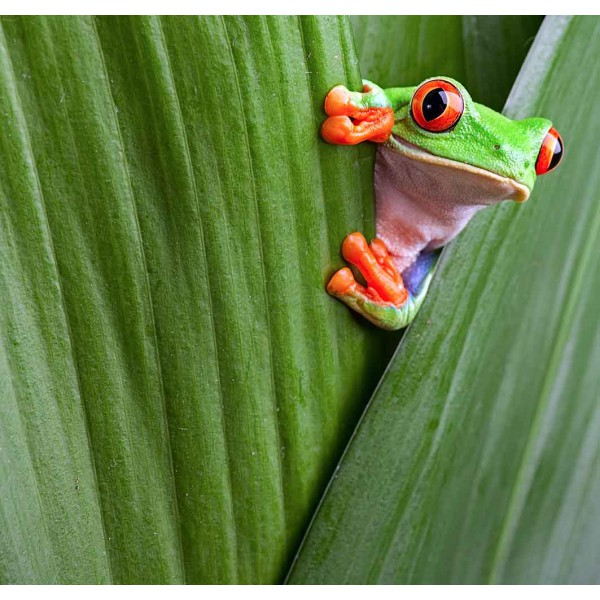
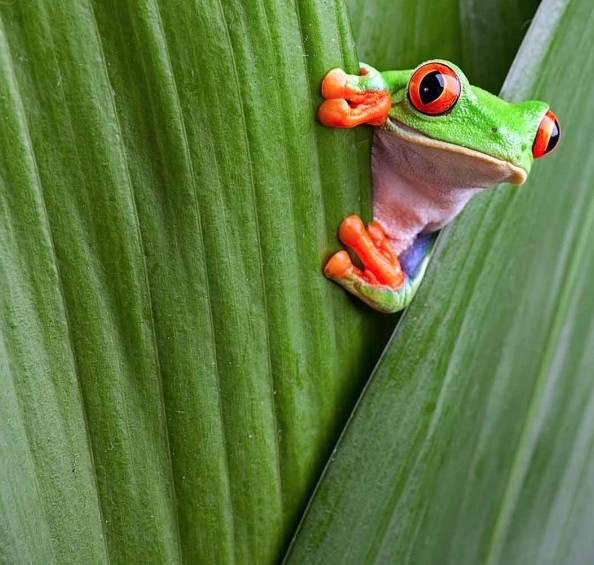
pr 2

diff --git a/src/pages/DescriptionPage.jsx b/src/pages/DescriptionPage.jsx
@@ -1,0 +1,87 @@
+import React from 'react'
+
+const DescriptionPage = () => {
+  return (
+    <div>
+        <div className='row'>
+            <div className='col-12'>
+                <h2 className='text-center mb-5'>Мое описание</h2>
+            </div>
+        </div>
+        
+        <div className='row justify-content-center'>
+            <div className='col-md-10'>
+                <div className='card shadow-lg border-0' style={{
+                    borderRadius: '15px',
+                    overflow: 'hidden'
+                }}>
+                
+                <div className='card-body p-0'>
+                        <div className='row g-0'>
+                            <div className='col-md-4'>
+                                <div className='h-100 d-flex align-items-center justify-content-center'
+                                style={{background: 'linear-gradient(135deg, #d14409 20%, #027201 80%) '}}>
+                                   <div className='text-center p-4'>
+                                        <img src="/images/frog2.1.jpg"
+                                        alt="лягушенька"
+                                        className='img-fluid rounded-circle shadow-lg mb-3'
+                                        style={{
+                                            width: '200px',
+                                            height: '200px',
+                                            objectFit: 'cover'
+                                        }}
+                                        onMouseEnter={(event) => event.target.style.transform = 'scale(1.2)'}
+                                        onMouseLeft={(event) => event.target.style.transform = 'scale(1)'}
+
+                                        >
+                                        </img>
+                                        <h4 className='text-white'>Василиса Премудрая</h4>
+                                        <p></p>
+                                    </div> 
+                                </div>
+                            </div>
+                            <div className='col-md-8'>
+                                <div className='p-5'>
+                                    <div className='mb-4'>
+                                        <h3 className='text-pemary mb-'>TOP SERCRET</h3>
+                                        <div className='row'>
+                                            <div className='col-md-6'>
+                                                <p className='mb-2'><b>full name</b> Ekaterina Sukhova</p>
+                                                <p className='mb-2'><b>age</b> 44</p>
+                                                <p className='mb-2'><b>city</b> Moscow</p>                
+                                            </div>
+
+                                            <div className='col-md-6'>
+                                            <p className='mb-2'><b>email</b> vasya@mail.ru</p>
+                                            <p className='mb-2'><b>cell</b> 123456789</p>
+                                            <p className='mb-2'><b>status</b> <span className='badge bg-warning'> in progress </span></p>
+                                            </div>
+                                        </div>
+                                    </div>
+
+
+                                     <div className='mb-4'>
+                                        <h3 className='text-warning mb-'>LOW SERCRET</h3>
+
+                                        <div className='card bg-light'>
+                                            <div className='card-body'>
+                                                <h5>NASA</h5>
+                                                <p className='mb-2'>long long time ago </p>
+                                            </div>
+                                          
+                                        </div>
+                                    </div>
+
+
+                                </div>
+                            </div>
+                        </div>
+                </div>
+            </div>
+        </div>
+    </div>
+    </div>
+  )
+}
+
+export default DescriptionPage

diff --git a/src/App.jsx b/src/App.jsx
@@ -2,52 +2,53 @@ import logo from './logo.svg';
 import 'bootstrap/dist/css/bootstrap.min.css';
 import './App.css';
 import CardComponent from './components/CardComponent';
+import {BrowserRouter as Router, Routes, Route, Link} from 'react-router-dom';
+import HomePage from './pages/HomePage';
+import CardsPage from './pages/CardsPage';
+import TablePage from './pages/TablePage';
+import PeoplePage from './pages/PeoplePage';
+import DescriptionPage from './pages/DescriptionPage';
 
 function App() {
   return (
+    <Router>
 <div className="App d-flex flex-column min-vh-100">
-<header className="bg-dark text-white py-3">
+
+<header className="text-white py-3" style={{backgroundColor: 'rgb(0, 30, 10)'}}>
   <div className="container">
     <div className="row align-item-center">
-      <div className="col">
+
+      <div className="col-md-6">
         <span>
           <img src={logo} className="App-logo" alt="logo" style={{height: '40px'}}/>
           Мое приложение
         </span>
       </div>
+
+      <div className="col-md-6 text-end">
+        <Link to="/" className="text-white text-decoration-none me-3">Main Page</Link>
+        <Link to="/cards" className="text-white text-decoration-none me-3" >Lyaguhi</Link>
+        <Link to="/table" className="text-white text-decoration-none me-3">Table page</Link>
+        <Link to="/human" className="text-white text-decoration-none me-3">stuff</Link>
+        <Link to="/description" className="text-white text-decoration-none me-3">description</Link>
+        
+      </div>
+
     </div>
   </div>
 </header>
 
 <main className="container my-5">
-<div className="row g-4">
-  <div className="col-md-4">
-    <CardComponent
-    title = "Лягуха 1"
-    imageUrl = "/images/frog1.webp"
-    description = "Одна крутая лягуха"
-    imageAlt = "лягуха 1"/>
-  </div>
-
-   <div className="col-md-4">
-    <CardComponent
-    title = "Лягуха 2"
-    imageUrl = "/images/frog3.webp"
-    description = "Две крутые лягухи"
-    imageAlt = "лягуха 2"/>
-  </div>
-
-   <div className="col-md-4">
-    <CardComponent
-    title = "Лягуха 3"
-    imageUrl = "/images/frog5.png"
-    description = "Три крутые лягухи"
-    imageAlt = "лягуха 3"/>
-  </div>
-</div>
+<Routes>
+  <Route path="/" element={<HomePage/>}/>
+  <Route path="/cards" element={<CardsPage/>}/>
+  <Route path="/table" element={<TablePage/>}/>
+  <Route path="/human" element={<PeoplePage/>}/>
+  <Route path="/description" element={<DescriptionPage/>}/>
+</Routes>
 </main>
 
-<footer className="bg-secondary py-3 mt-auto">
+<footer className="py-3 mt-auto" style={{backgroundColor: 'rgba(2, 114, 1)'}}>
   <div className="container">
     <div className="row align-items-center">
       <div className="col">
@@ -60,6 +61,7 @@ function App() {
 
 </footer>
 </div>
+</Router>
   )
 }
 

diff --git a/src/pages/TablePage.jsx b/src/pages/TablePage.jsx
@@ -1,0 +1,41 @@
+import React from 'react'
+
+const TablePage = () => {
+  return (
+    <div>
+    <h2>Tables:</h2>
+    <table className="table table-hover">
+        <thead className="table-dark">
+            <tr className='table-dark'>
+                <th>ФИО</th>
+                <th>Почта</th>
+                <th>Статус</th>
+
+            </tr>
+        </thead>
+        <tbody>
+            <tr className='table-success'>
+                <td>Сухова Екатерина Александровна</td>
+                <td>katenkasukhova@yandex.ru</td>
+                <td><span className="badge bg-success"> Мега-Пользователь</span></td>
+            </tr>      
+            <tr className='table-warning'>
+                <td>Сухова Екатерина Александровна</td>
+                <td>katenkasukhova@yandex.ru</td>
+                <td><span className="badge bg-warning"> Мега-Пользователь</span></td>
+
+
+            </tr>      
+            <tr className='table-danger'>
+                <td>Сухова Екатерина Александровна</td>
+                <td>katenkasukhova@yandex.ru</td>
+                <td><span className="badge bg-danger"> Мега-Пользователь</span></td>
+            </tr>      
+
+        </tbody>
+    </table>
+    </div>
+  )
+}
+
+export default TablePage

diff --git a/src/pages/CardsPage.jsx b/src/pages/CardsPage.jsx
@@ -1,0 +1,36 @@
+import React from 'react'
+import CardComponent from '../components/CardComponent';
+
+const CardsPage = () => {
+  return (
+    <div>
+        <div className="row g-4">
+  <div className="col-md-4">
+    <CardComponent
+    title = "Лягуха 1"
+    imageUrl = "/images/frog1.webp"
+    description = "Одна крутая лягуха"
+    imageAlt = "лягуха 1"/>
+  </div>
+
+   <div className="col-md-4">
+    <CardComponent
+    title = "Лягуха 2"
+    imageUrl = "/images/frog3.webp"
+    description = "Две крутые лягухи"
+    imageAlt = "лягуха 2"/>
+  </div>
+
+   <div className="col-md-4">
+    <CardComponent
+    title = "Лягуха 3"
+    imageUrl = "/images/frog5.png"
+    description = "Три крутые лягухи"
+    imageAlt = "лягуха 3"/>
+  </div>
+</div>
+    </div>
+  );
+};
+
+export default CardsPage;

diff --git a/src/pages/PeoplePage.jsx b/src/pages/PeoplePage.jsx
@@ -1,0 +1,31 @@
+import React, { useEffect, useState } from 'react'
+
+const PeoplePage = () => {
+    const [human, setHuman] = useState([])
+
+    useEffect(() => {
+        fetch('/api/data.json')
+        .then((res) => res.json())
+        .then((data) => setHuman(data.human || []))
+    }, []);
+
+  return (
+    <div>
+        <h2 className='text-center mb-4'>Данные из файла</h2>
+        <div className='row g-3'>
+        {human.map((hum) => (
+            <div className='col-md-6' key={hum.id}>
+                <div className='card h-100'>
+                    <div className='card-body'>
+                        <h5 className='card-title mb-1'>{hum.fio}</h5>
+                        <p  className='mb-1'>{hum.age}</p>
+                    </div>
+                </div>
+            </div>
+        ))}
+    </div>
+    </div>
+  );
+};
+
+export default PeoplePage

diff --git a/src/pages/HomePage.jsx b/src/pages/HomePage.jsx
@@ -1,0 +1,15 @@
+import React from 'react'
+
+const HomePage = () => {
+  return (
+    <div>
+        <div className="row justify-content-center">
+            <div className="col-md-8 text-center">
+                <h1>Дратути, рогикози!</h1>
+            </div>
+        </div>
+    </div>
+  )
+}
+
+export default HomePage
